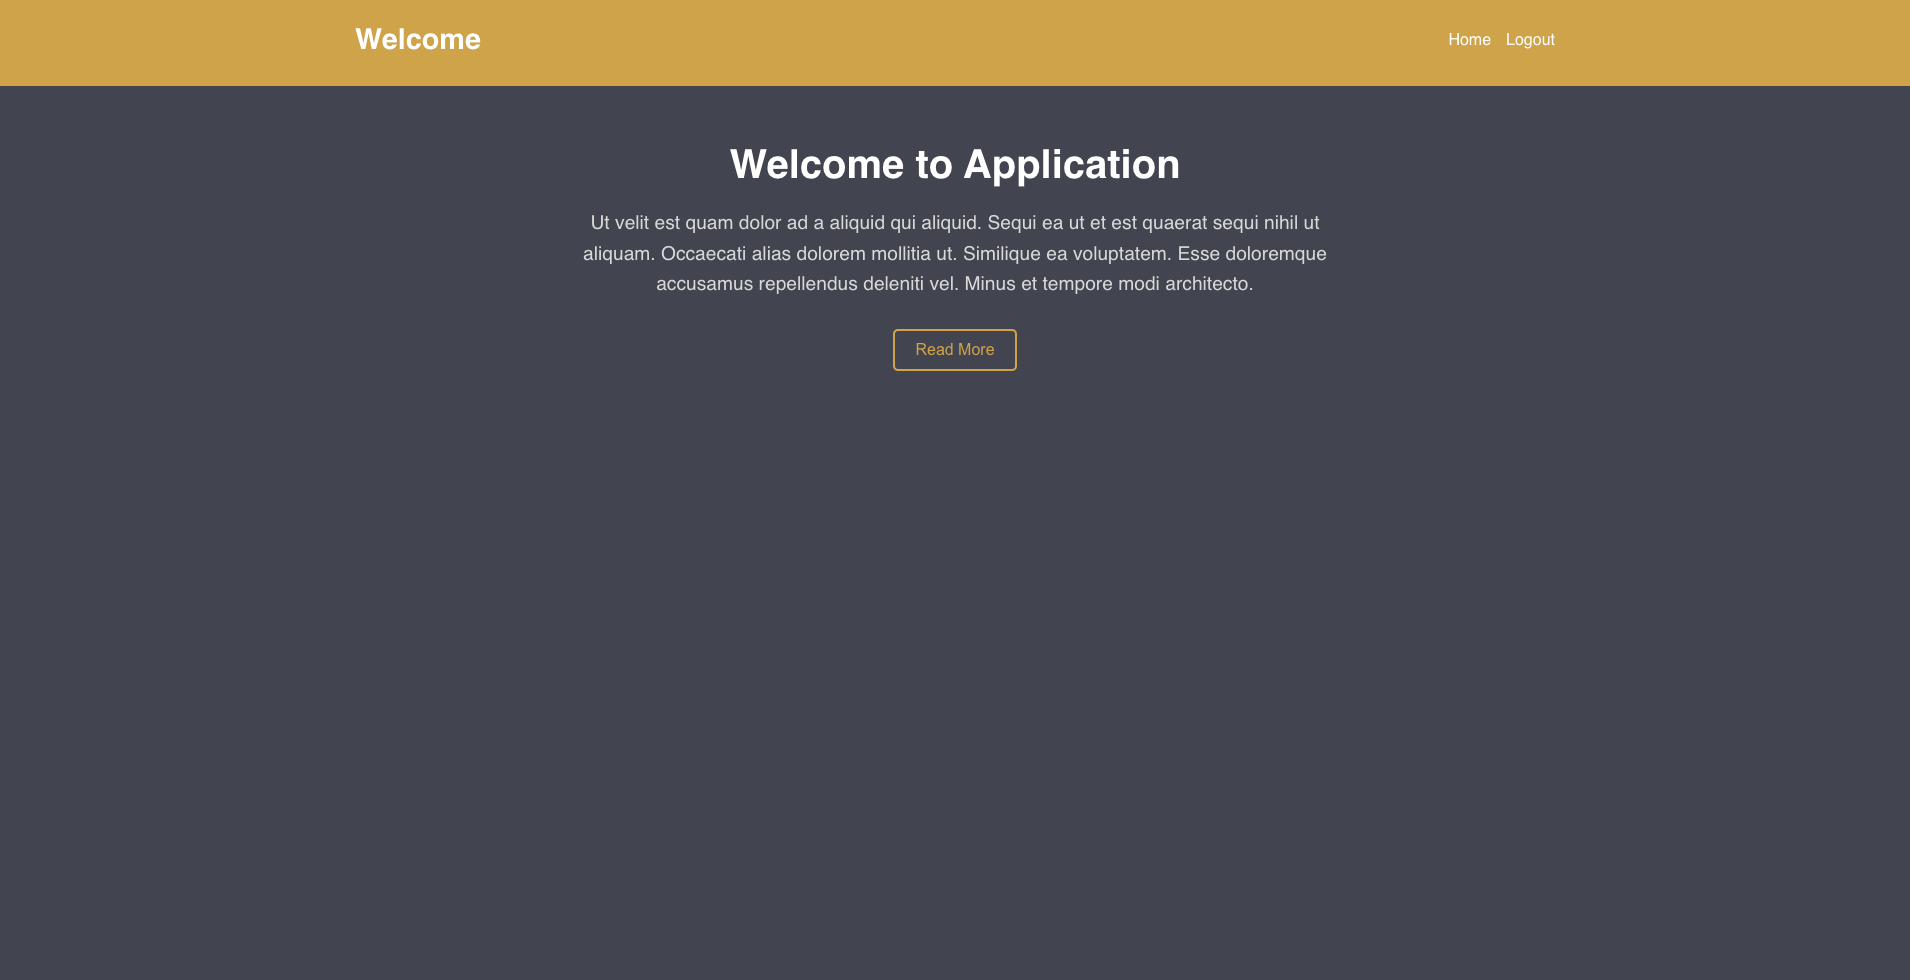
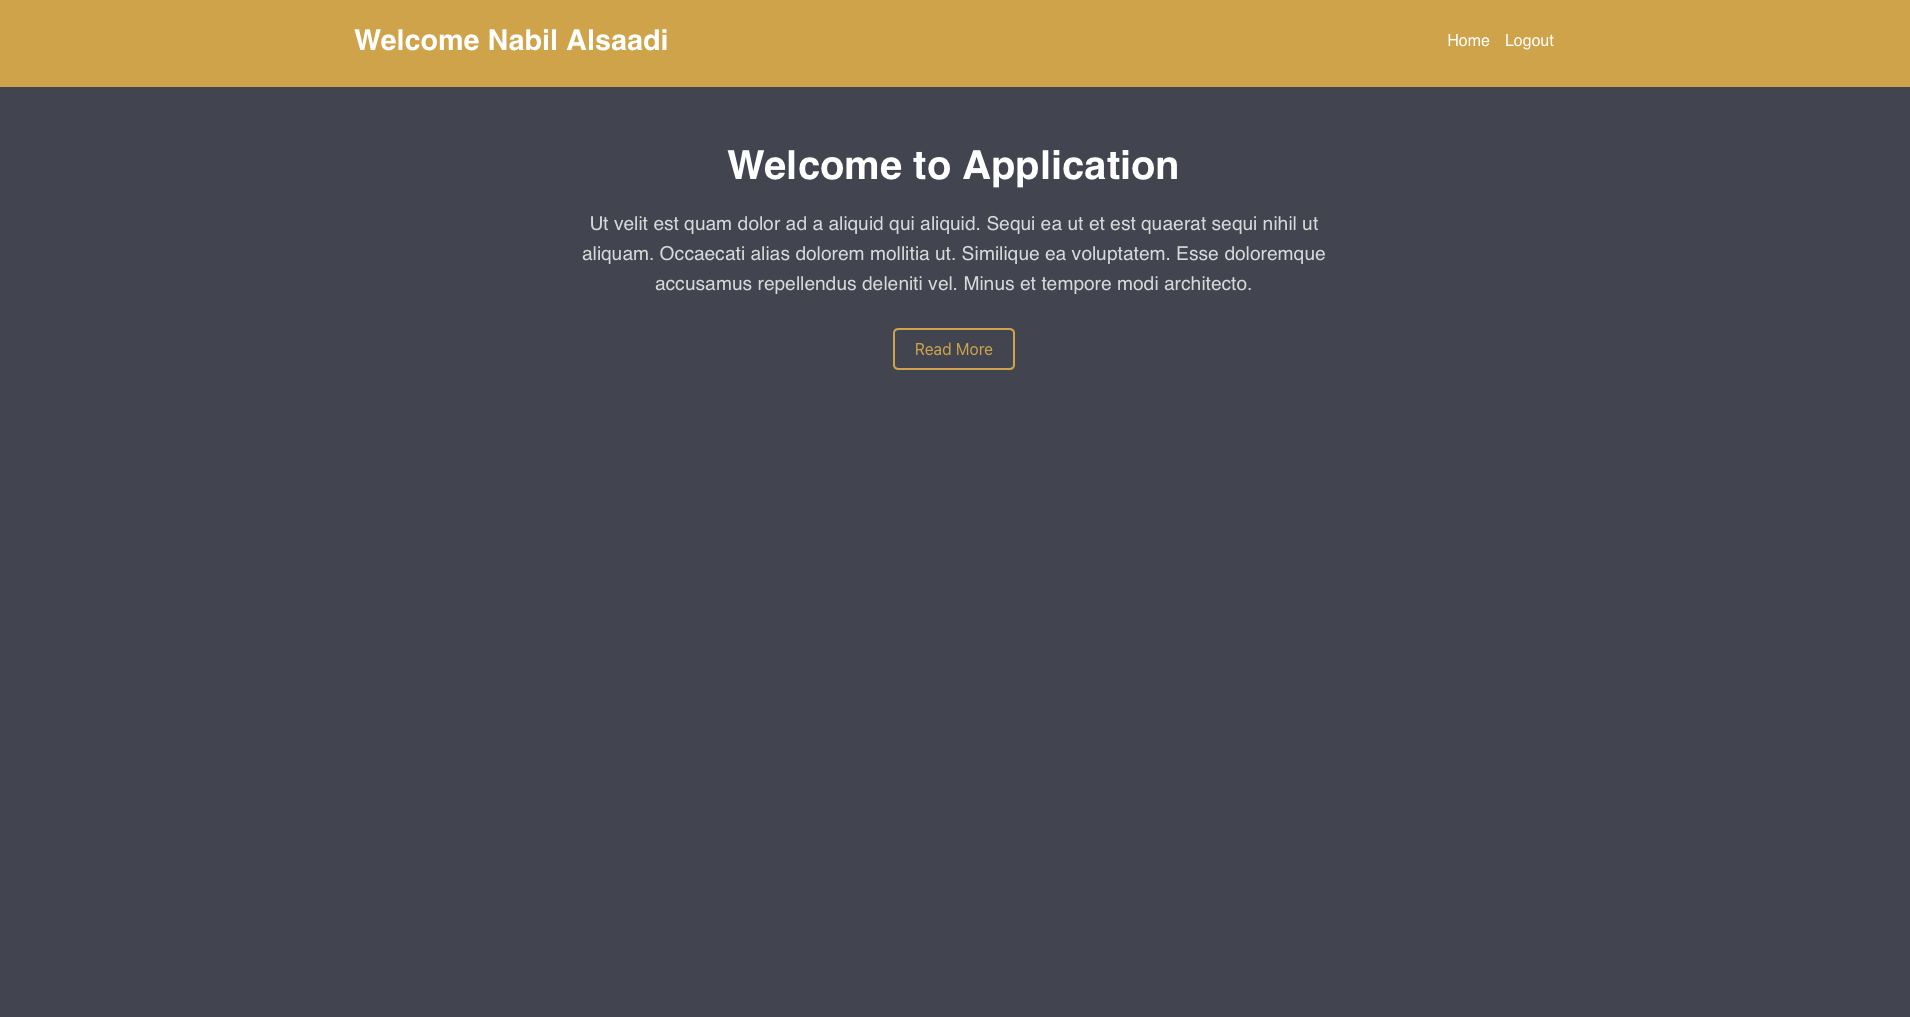
fix get user data

diff --git a/auth-app-frontend/src/pages/Home.tsx b/auth-app-frontend/src/pages/Home.tsx
@@ -1,9 +1,14 @@
-import React from 'react';
+import React, { useEffect } from 'react';
 import AppHeader from '../components/AppHeader';
 import '../styles/Home.css'
+import { getUserData } from '../redux/actions/userActions';
+import { useDispatch } from 'react-redux';
 
 const Home: React.FC = () => {
-
+  const dispatch = useDispatch();
+  useEffect(() => {
+    dispatch(getUserData())
+  },[])
   return (
     <div className="app-page">
       <AppHeader title="Welcome" />
